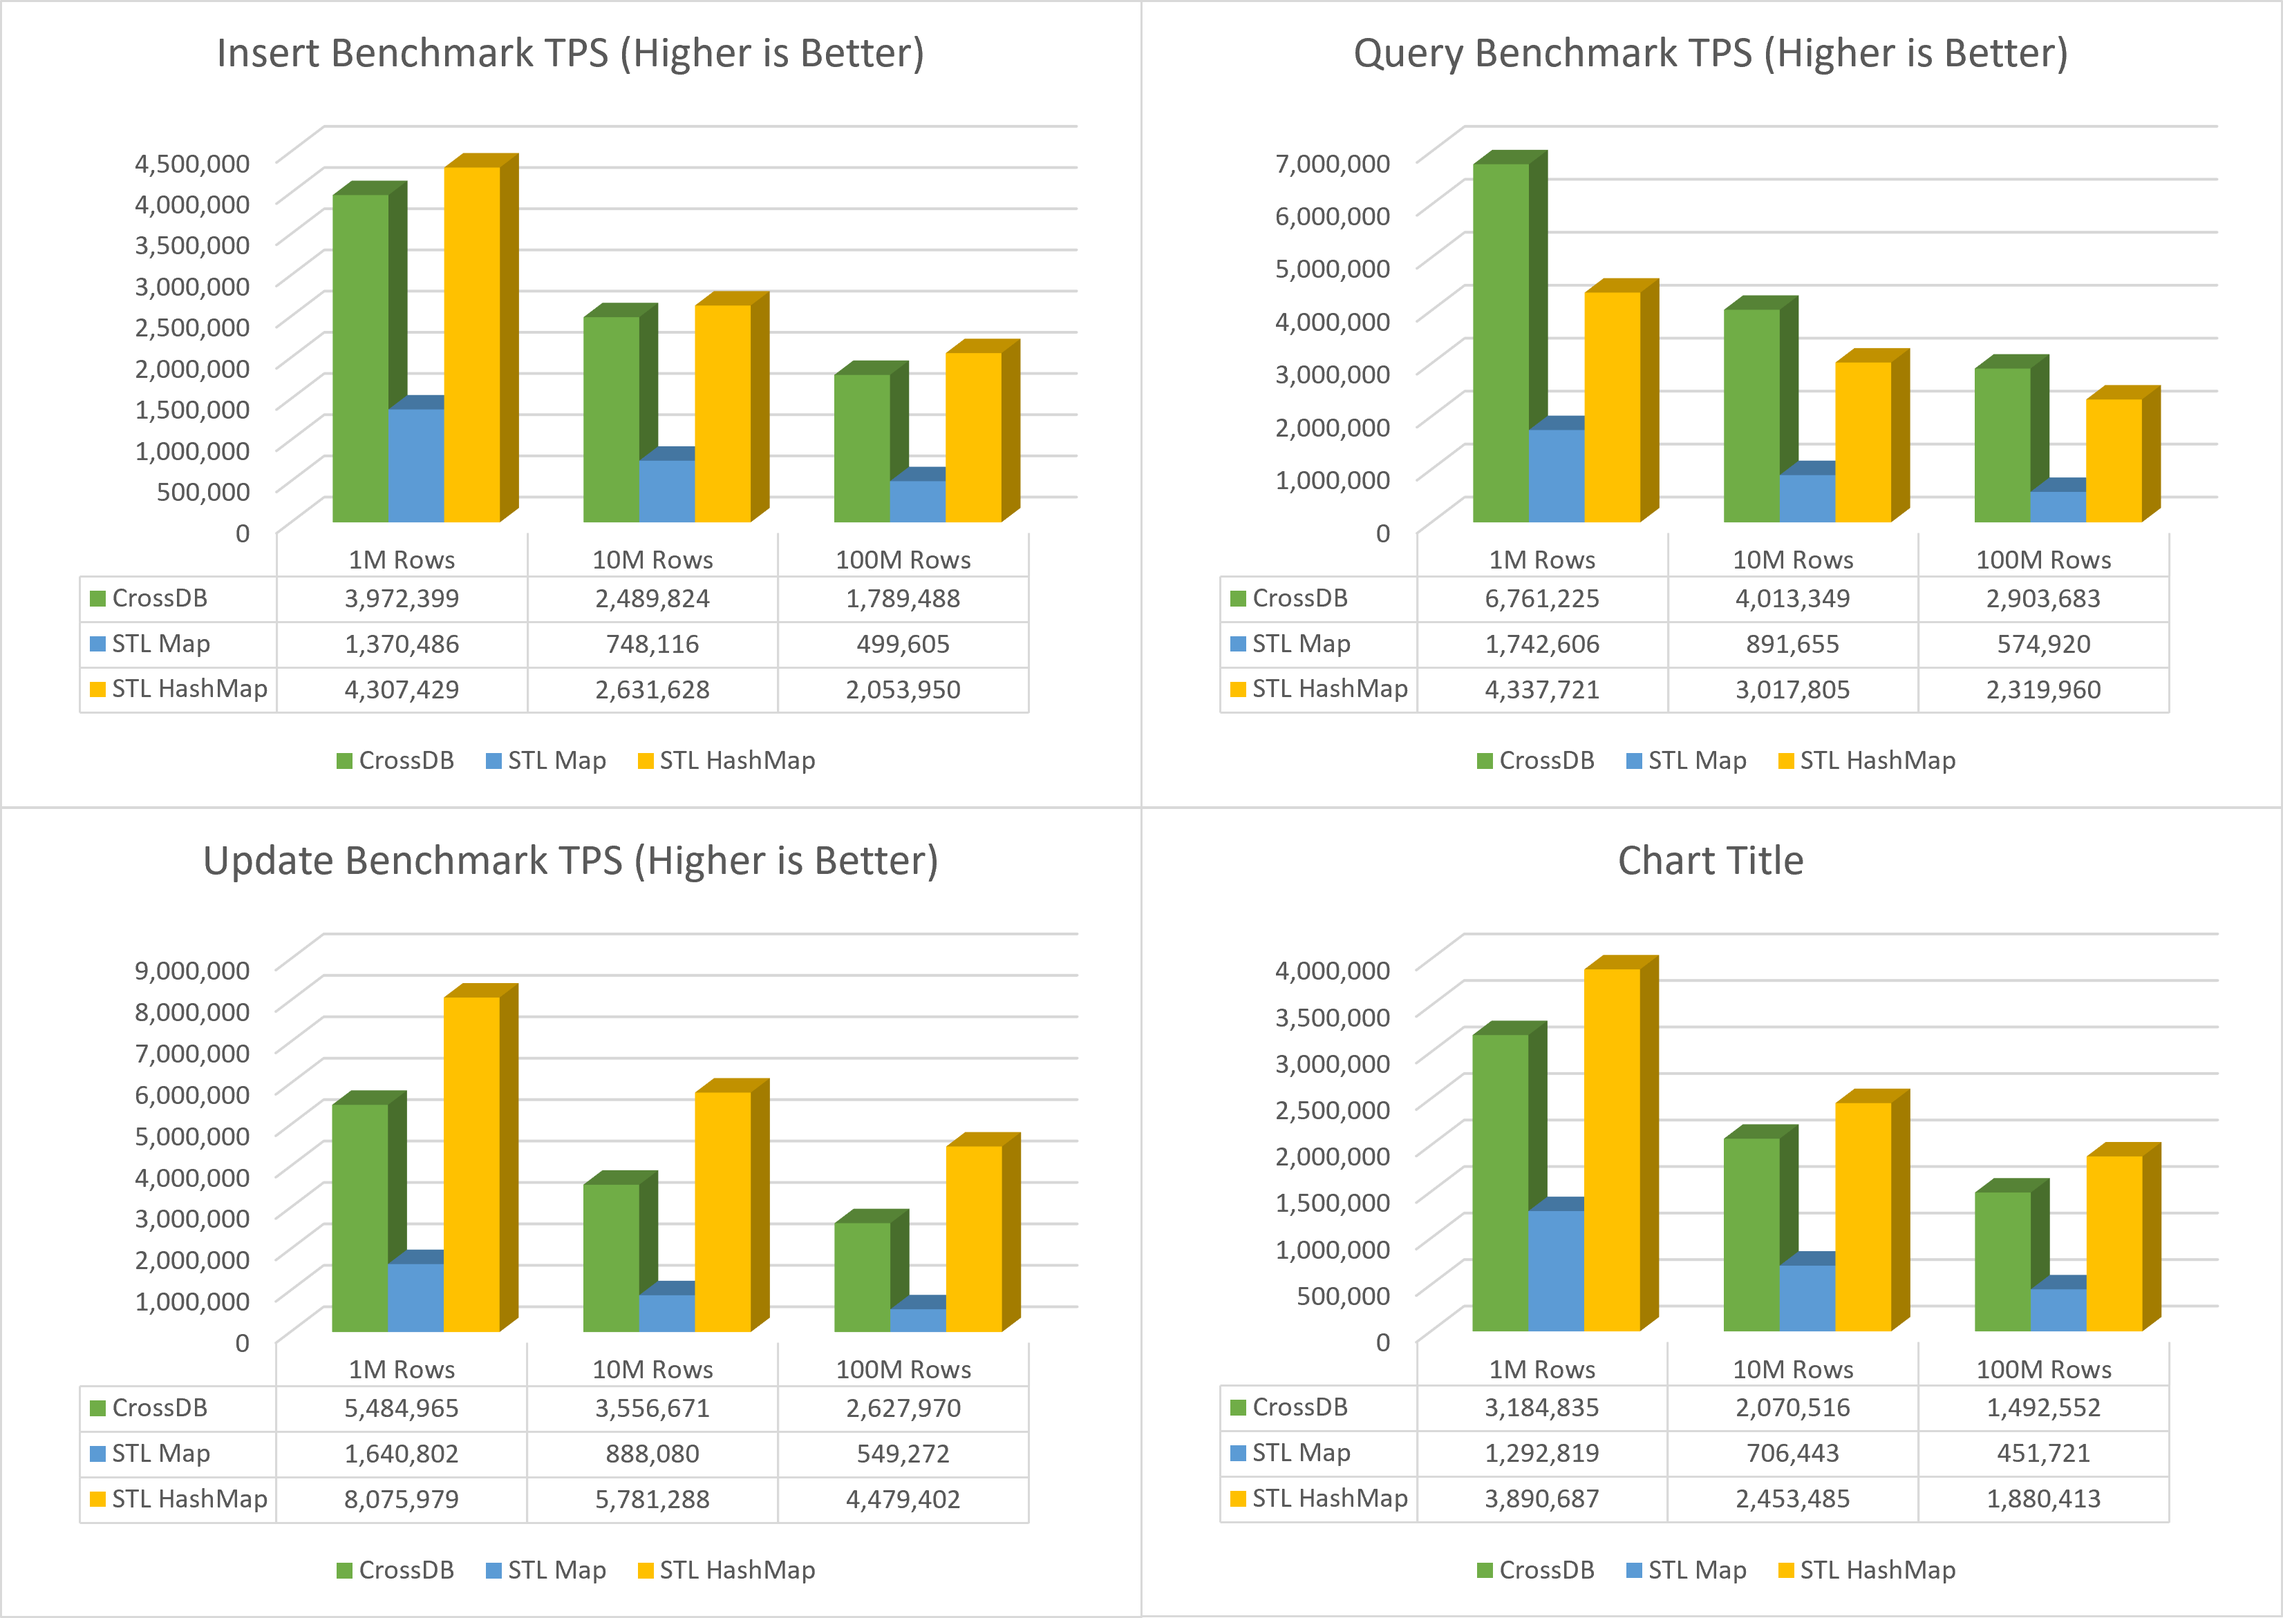
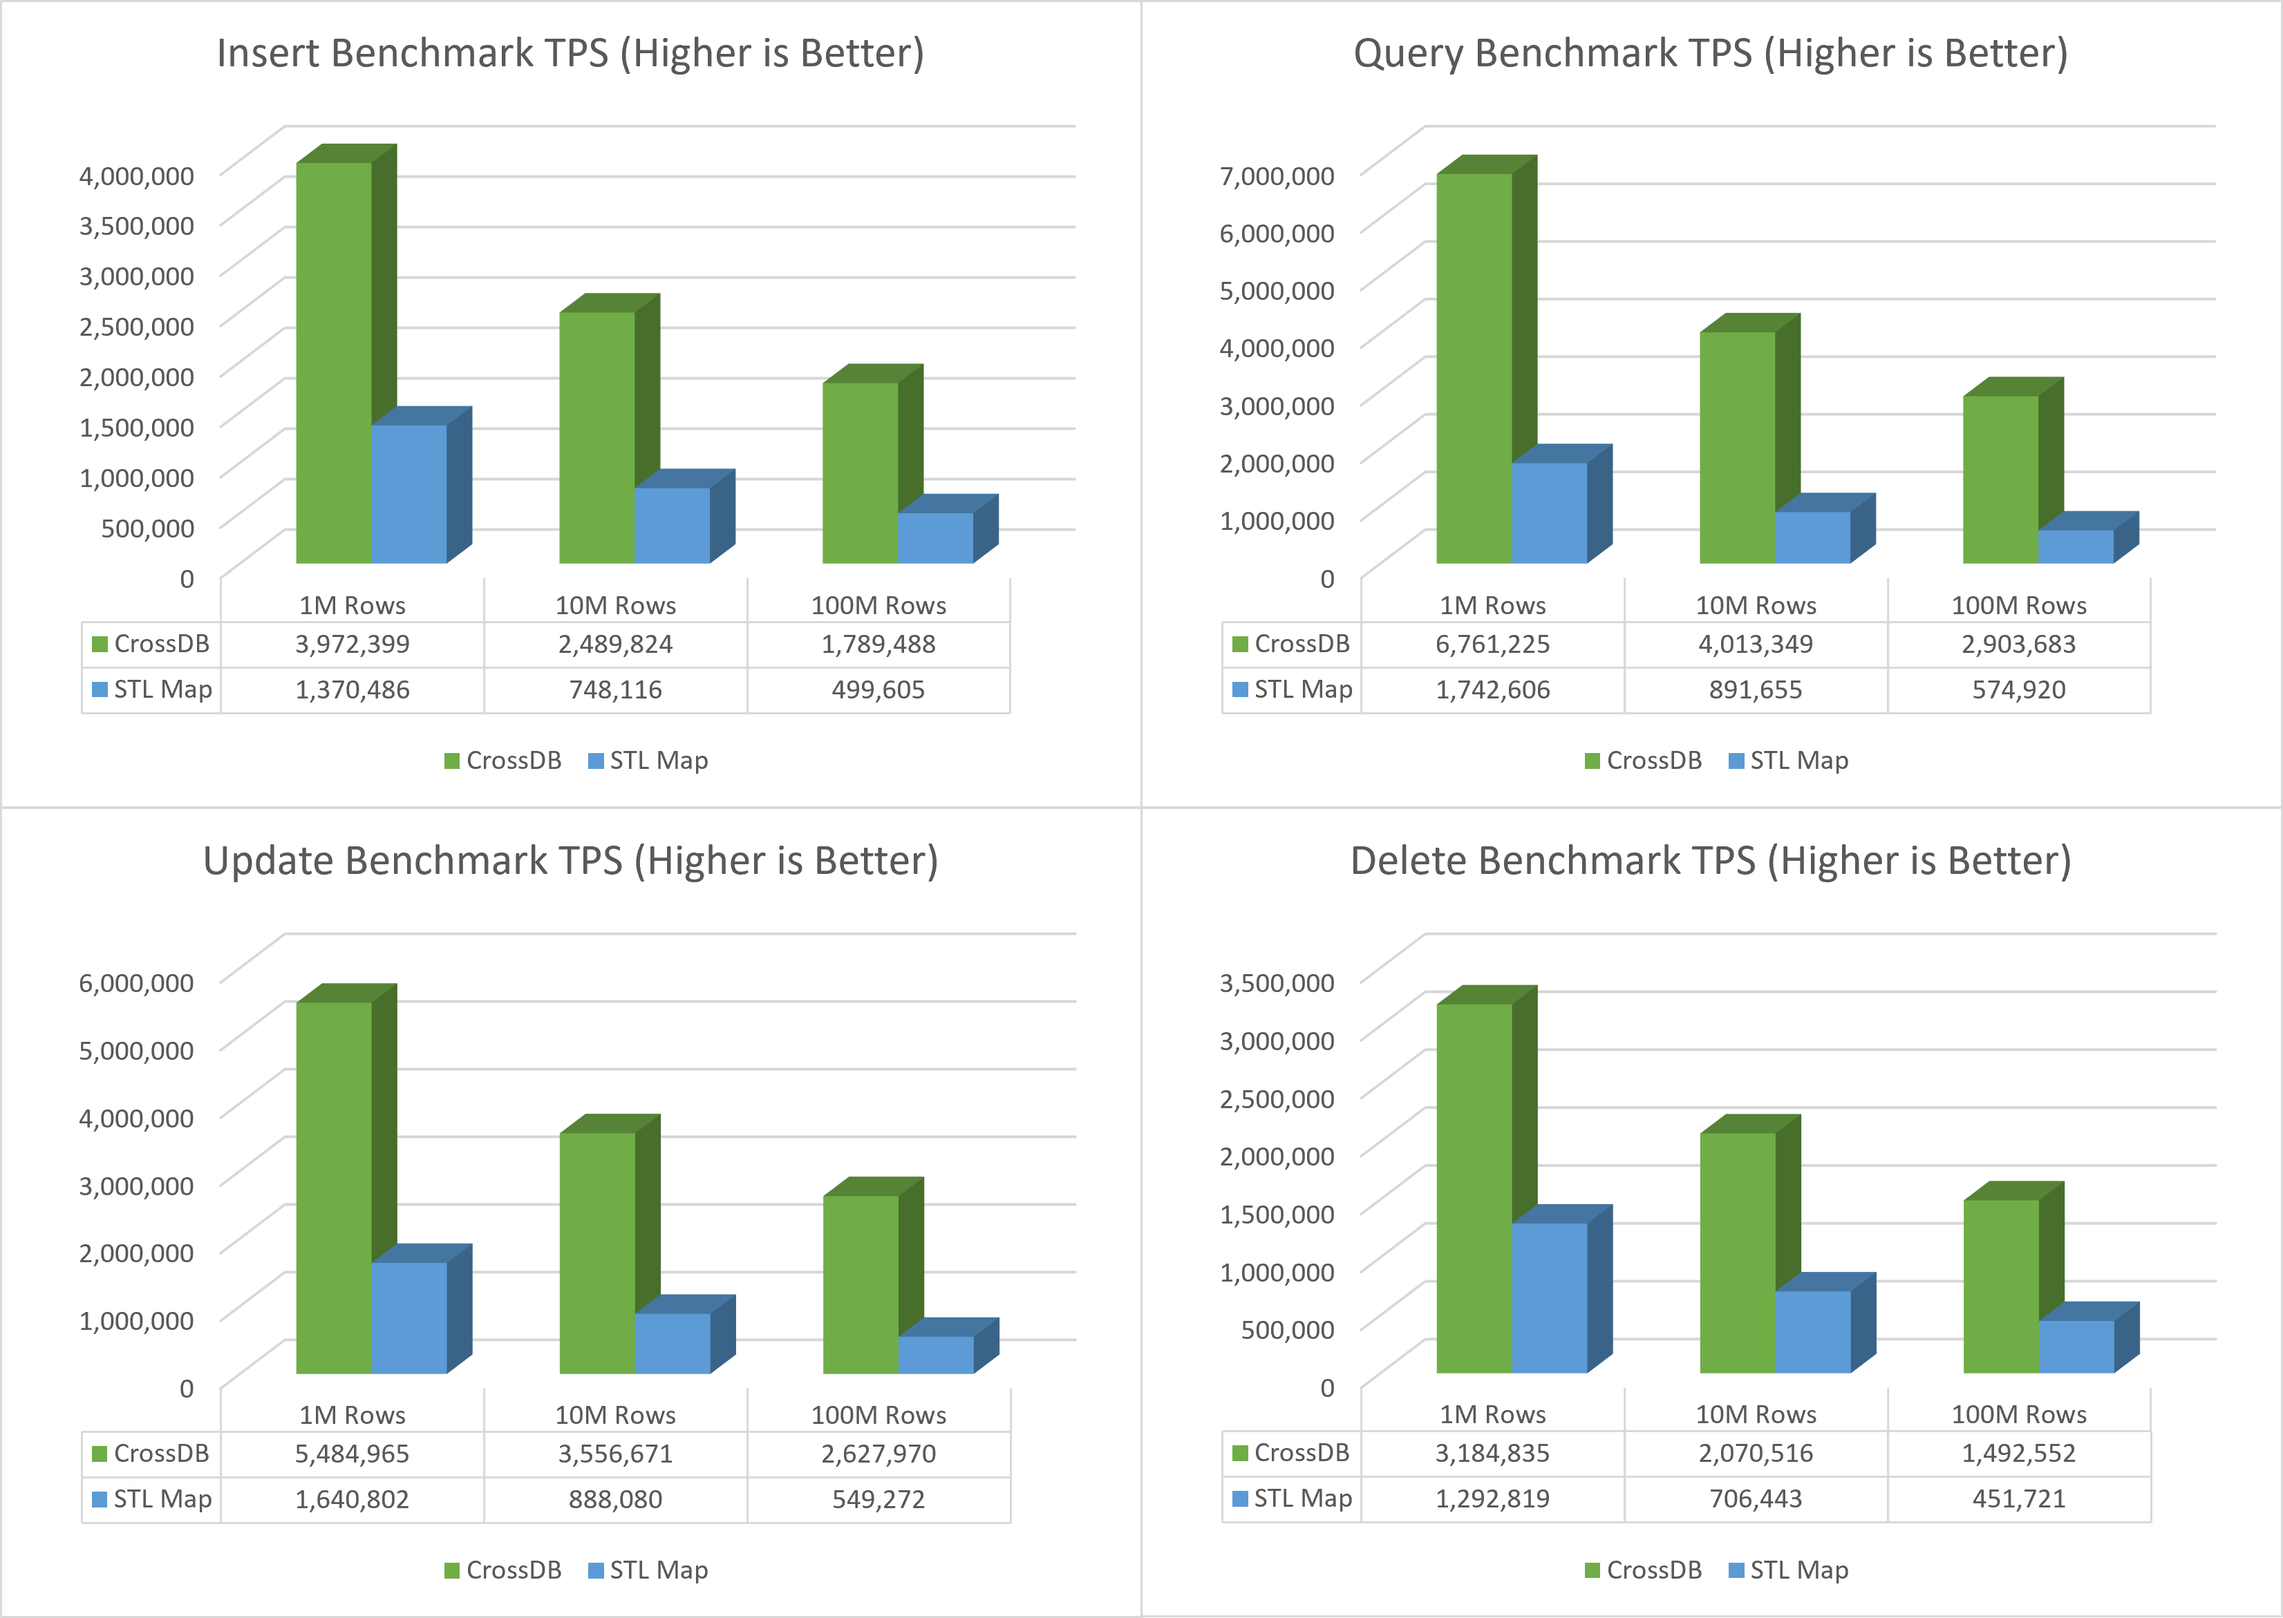
update

diff --git a/docs/blog/benchmark/crossdb-vs-stlhmap.md b/docs/blog/benchmark/crossdb-vs-stlhmap.md
@@ -1,0 +1,114 @@
+---
+template: overrides/blog.html
+---
+
+# CrossDB vs STL Map and Hashmap Benchmark
+
+Test tool: [CrossBench](../../../docs/reference/crossbench)  
+
+DB Driver: [STLMap](https://github.com/crossdb-org/CrossBench/blob/main/stlmap-bench.c) [STLHashmap](https://github.com/crossdb-org/CrossBench/blob/main/stlhmap-bench.c) [CrossDB](https://github.com/crossdb-org/CrossBench/blob/main/crossdb-bench.c) 
+
+Test Config: Random Access, Single Thread, Bind CPU Core
+
+## Test Server
+```
+CPU			: Intel(R) Xeon(R) Gold 5318Y CPU @ 2.10GHz	cache size 36864 KB
+HDD			: DELL PERC H755 Front SCSI Disk
+OS			: Ubuntu 20.04
+STL			: GCC v10.2.1
+CrossDB		: v0.5.0
+```
+
+<!--
+cat /proc/cpuinfo
+sudo lshw -class disk
+-->
+
+## In-Memory Database Benchmark
+-------------------------------------------------------------------------------
+
+**Test Script**
+
+=== "CrossDB"
+	```
+	loop="1 2 3"
+	./crossdb-bench.bin -H -r 0
+	for i in $loop; do ./crossdb-bench.bin -s m -i 1k   -q 40m -u 30m -Q -H -c $cpu; done
+	for i in $loop; do ./crossdb-bench.bin -s m -i 10k  -q 40m -u 30m -Q -H -c $cpu; done
+	for i in $loop; do ./crossdb-bench.bin -s m -i 100k -q 40m -u 30m -Q -H -c $cpu; done
+	for i in $loop; do ./crossdb-bench.bin -s m -i 1m   -q 10m -u 10m -Q -H -c $cpu; done
+	for i in $loop; do ./crossdb-bench.bin -s m -i 10m  -q 10m -u 10m -Q -H -c $cpu; done
+	for i in $loop; do ./crossdb-bench.bin -s m -i 100m -q 10m -u 10m -Q -H -c $cpu; done
+	```
+
+=== "STL Map"
+	```
+	loop="1 2 3"
+	./stlmap-bench.bin -H -r 0
+	for i in $loop; do ./stlmap-bench.bin -s m -i 1k   -q 40m -u 40m -Q -H -c $cpu; done
+	for i in $loop; do ./stlmap-bench.bin -s m -i 10k  -q 20m -u 20m -Q -H -c $cpu; done
+	for i in $loop; do ./stlmap-bench.bin -s m -i 100k -q 10m -u 10m -Q -H -c $cpu; done
+	for i in $loop; do ./stlmap-bench.bin -s m -i 1m   -q 5m  -u 5m  -Q -H -c $cpu; done
+	for i in $loop; do ./stlmap-bench.bin -s m -i 10m  -q 2m  -u 2m  -Q -H -c $cpu; done
+	for i in $loop; do ./stlmap-bench.bin -s m -i 100m -q 1m  -u 1m  -Q -H -c $cpu; done
+	```
+
+=== "STL Hashmap"
+	```
+	loop="1 2 3"
+	./stlhmap-bench.bin -H -r 0
+	for i in $loop; do ./stlhmap-bench.bin -s m -i 1k   -q 60m -u 60m -Q -H -c $cpu; done
+	for i in $loop; do ./stlhmap-bench.bin -s m -i 10k  -q 60m -u 60m -Q -H -c $cpu; done
+	for i in $loop; do ./stlhmap-bench.bin -s m -i 100k -q 30m -u 40m -Q -H -c $cpu; done
+	for i in $loop; do ./stlhmap-bench.bin -s m -i 1m   -q 10m -u 10m -Q -H -c $cpu; done
+	for i in $loop; do ./stlhmap-bench.bin -s m -i 10m  -q 10m -u 10m -Q -H -c $cpu; done
+	for i in $loop; do ./stlhmap-bench.bin -s m -i 100m -q 10m -u 10m -Q -H -c $cpu; done
+	```
+
+**Small Data Set Test**
+<figure class="cdb-figure">
+	<img src="../../../images/benchmark/crossdb-vs-stlmap-small.png">
+</figure>
+
+**Large Data Set Test**
+<figure class="cdb-figure">
+	<img src="../../../images/benchmark/crossdb-vs-stlmap-large.png">
+</figure>
+
+<!--
+Insert		| STL Map	| STL HashMap | CrossDB
+ ----       | ----      | ----        | ----
+1K Rows		| 5,208,333	| 8,547,008	  | 4,016,064
+10K Rows	| 4,591,368	| 9,293,680	  | 5,356,186
+100K Rows	| 2,817,933	| 5,918,910	  | 4,159,733
+1M Rows		| 1,370,486	| 4,307,429	  | 3,972,399
+10M Rows	|   748,116	| 2,631,628	  | 2,489,824
+100M Rows	|   499,605	| 2,053,950	  | 1,789,488
+
+Query		| STL Map	| STL HashMap | CrossDB
+ ----       | ----      | ----        | ----
+1K Rows		| 15,027,199| 48,217,752  | 22,109,461
+10K Rows	|  8,803,245| 40,067,111  | 19,717,491
+100K Rows	|  4,358,592| 14,537,531  | 14,143,811
+1M Rows		|  1,742,606|  4,337,721  |  6,761,225
+10M Rows	|   891,655	|  3,017,805  |  4,013,349
+100M Rows	|   574,920	|  2,319,960  |  2,903,683
+
+Update		| STL Map	| STL HashMap | CrossDB
+ ----       | ----      | ----        | ----
+1K Rows		| 14,301,936| 38,029,789  | 16,017,004
+10K Rows	|  8,605,787| 37,813,531  | 14,567,100
+100K Rows	|  4,169,751| 26,214,830  | 10,259,367
+1M Rows		|  1,640,802|  8,075,979  |  5,484,965
+10M Rows	|    888,080|  5,781,288  |  3,556,671
+100M Rows	|    549,272|  4,479,402  |  2,627,970
+				
+Delete		| STL Map	| STL HashMap | CrossDB
+ ----       | ----      | ----        | ----
+1K Rows		| 6,493,506	| 18,181,818  | 8,333,333
+10K Rows	| 5,291,005	| 14,513,788  | 7,385,524
+100K Rows	| 3,163,555	|  9,502,090  | 5,474,052
+1M Rows		| 1,292,819	|  3,890,687  | 3,184,835
+10M Rows	|  706,443	|  2,453,485  | 2,070,516
+100M Rows	|  451,721	|  1,880,413  | 1,492,552
+-->

diff --git a/docs/blog/benchmark/crossdb-vs-stlmap.md b/docs/blog/benchmark/crossdb-vs-stlmap.md
@@ -2,13 +2,13 @@
 template: overrides/blog.html
 ---
 
-# CrossDB vs STL Map and Hashmap Benchmark
+# CrossDB vs STL Map Benchmark
 
 Test tool: [CrossBench](../../../docs/reference/crossbench)  
 
-DB Driver: [STLMap](https://github.com/crossdb-org/CrossBench/blob/main/stlmap-bench.c) [STLHashmap](https://github.com/crossdb-org/CrossBench/blob/main/stlhmap-bench.c) [CrossDB](https://github.com/crossdb-org/CrossBench/blob/main/crossdb-bench.c) 
+DB Driver: [STLMap](https://github.com/crossdb-org/CrossBench/blob/main/stlmap-bench.c) [CrossDB](https://github.com/crossdb-org/CrossBench/blob/main/crossdb-bench.c) 
 
-Test Config: Random Access, Single Thread, Bind CPU Core
+Test Config: Random Access, Single Thread, Bind CPU Core, To make test fair, STL map uses read-write lock as CrossDB is thread-safe with read-write lock also.
 
 ## Test Server
 ```
@@ -53,18 +53,6 @@ sudo lshw -class disk
 	for i in $loop; do ./stlmap-bench.bin -s m -i 100m -q 1m  -u 1m  -Q -H -c $cpu; done
 	```
 
-=== "STL Hashmap"
-	```
-	loop="1 2 3"
-	./stlhmap-bench.bin -H -r 0
-	for i in $loop; do ./stlhmap-bench.bin -s m -i 1k   -q 60m -u 60m -Q -H -c $cpu; done
-	for i in $loop; do ./stlhmap-bench.bin -s m -i 10k  -q 60m -u 60m -Q -H -c $cpu; done
-	for i in $loop; do ./stlhmap-bench.bin -s m -i 100k -q 30m -u 40m -Q -H -c $cpu; done
-	for i in $loop; do ./stlhmap-bench.bin -s m -i 1m   -q 10m -u 10m -Q -H -c $cpu; done
-	for i in $loop; do ./stlhmap-bench.bin -s m -i 10m  -q 10m -u 10m -Q -H -c $cpu; done
-	for i in $loop; do ./stlhmap-bench.bin -s m -i 100m -q 10m -u 10m -Q -H -c $cpu; done
-	```
-
 **Small Data Set Test**
 <figure class="cdb-figure">
 	<img src="../../../images/benchmark/crossdb-vs-stlmap-small.png">
@@ -74,41 +62,3 @@ sudo lshw -class disk
 <figure class="cdb-figure">
 	<img src="../../../images/benchmark/crossdb-vs-stlmap-large.png">
 </figure>
-
-<!--
-Insert		| STL Map	| STL HashMap | CrossDB
- ----       | ----      | ----        | ----
-1K Rows		| 5,208,333	| 8,547,008	  | 4,016,064
-10K Rows	| 4,591,368	| 9,293,680	  | 5,356,186
-100K Rows	| 2,817,933	| 5,918,910	  | 4,159,733
-1M Rows		| 1,370,486	| 4,307,429	  | 3,972,399
-10M Rows	|   748,116	| 2,631,628	  | 2,489,824
-100M Rows	|   499,605	| 2,053,950	  | 1,789,488
-
-Query		| STL Map	| STL HashMap | CrossDB
- ----       | ----      | ----        | ----
-1K Rows		| 15,027,199| 48,217,752  | 22,109,461
-10K Rows	|  8,803,245| 40,067,111  | 19,717,491
-100K Rows	|  4,358,592| 14,537,531  | 14,143,811
-1M Rows		|  1,742,606|  4,337,721  |  6,761,225
-10M Rows	|   891,655	|  3,017,805  |  4,013,349
-100M Rows	|   574,920	|  2,319,960  |  2,903,683
-
-Update		| STL Map	| STL HashMap | CrossDB
- ----       | ----      | ----        | ----
-1K Rows		| 14,301,936| 38,029,789  | 16,017,004
-10K Rows	|  8,605,787| 37,813,531  | 14,567,100
-100K Rows	|  4,169,751| 26,214,830  | 10,259,367
-1M Rows		|  1,640,802|  8,075,979  |  5,484,965
-10M Rows	|    888,080|  5,781,288  |  3,556,671
-100M Rows	|    549,272|  4,479,402  |  2,627,970
-				
-Delete		| STL Map	| STL HashMap | CrossDB
- ----       | ----      | ----        | ----
-1K Rows		| 6,493,506	| 18,181,818  | 8,333,333
-10K Rows	| 5,291,005	| 14,513,788  | 7,385,524
-100K Rows	| 3,163,555	|  9,502,090  | 5,474,052
-1M Rows		| 1,292,819	|  3,890,687  | 3,184,835
-10M Rows	|  706,443	|  2,453,485  | 2,070,516
-100M Rows	|  451,721	|  1,880,413  | 1,492,552
--->

diff --git a/docs/blog/benchmark/crossdb-vs-lmdb.md b/docs/blog/benchmark/crossdb-vs-lmdb.md
@@ -63,6 +63,9 @@ MDB_NOSYNC | MDB_NOMETASYNC | MDB_WRITEMAP | MDB_MAPASYNC | MDB_NORDAHEAD
 	<img src="../../../images/benchmark/crossdb-vs-lmdb-ondisk-small.png">
 </figure>
 
+>**Note**
+> LMDB DB size is fixed and preallocated, so it's faster is 1K insert test.
+
 **Large Data Set Test**
 <figure class="cdb-figure">
 	<img src="../../../images/benchmark/crossdb-vs-lmdb-ondisk-large.png">
